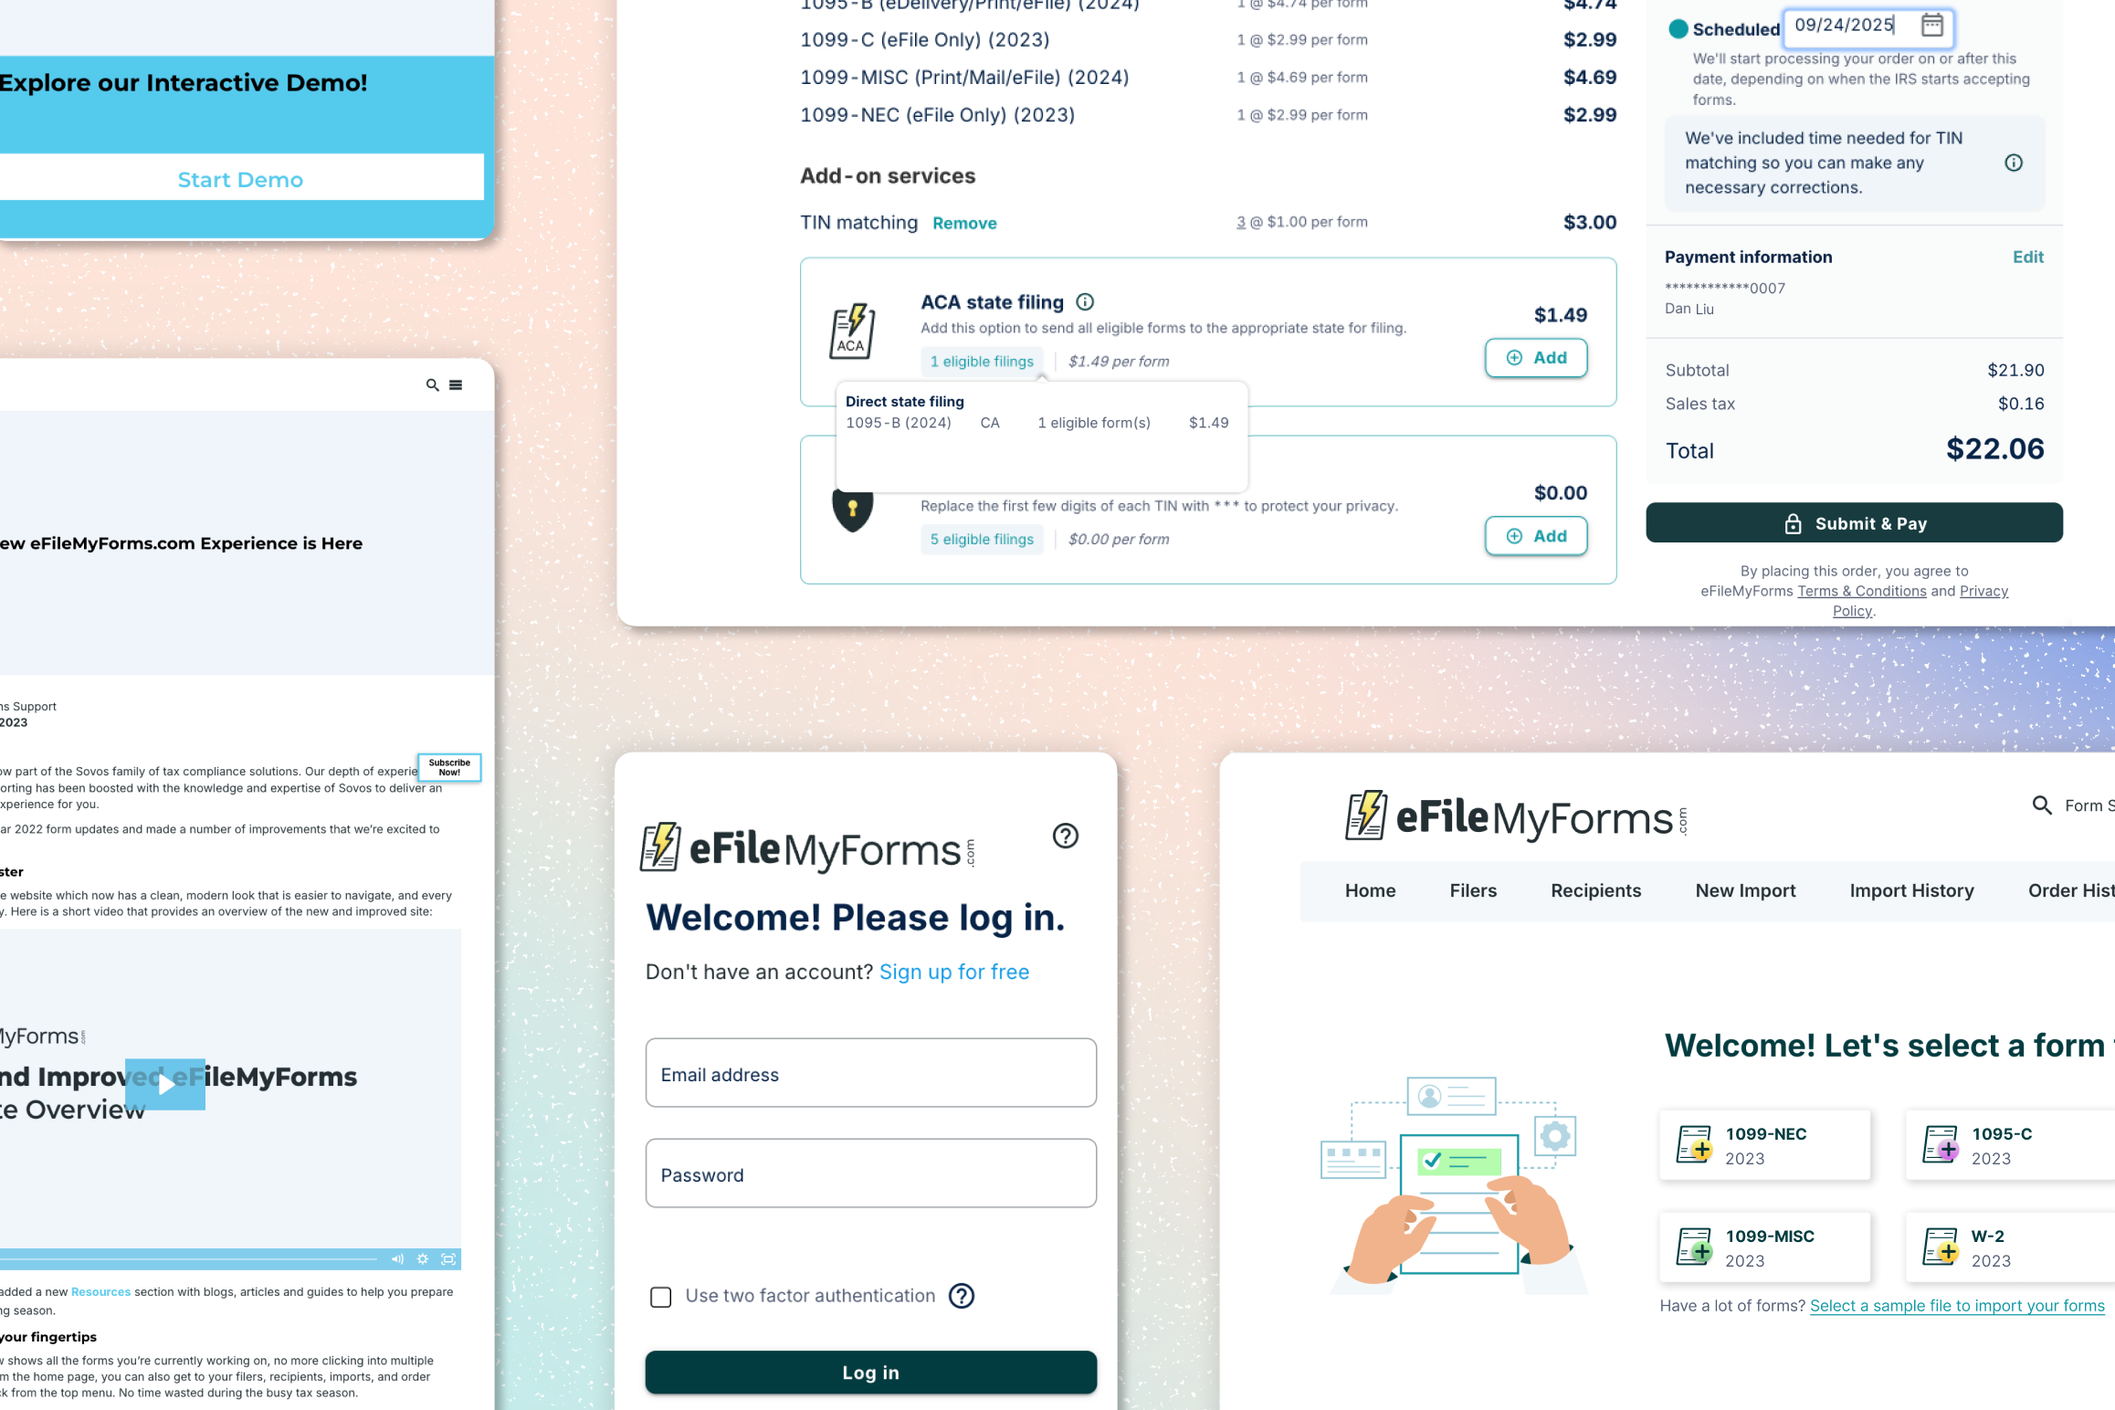
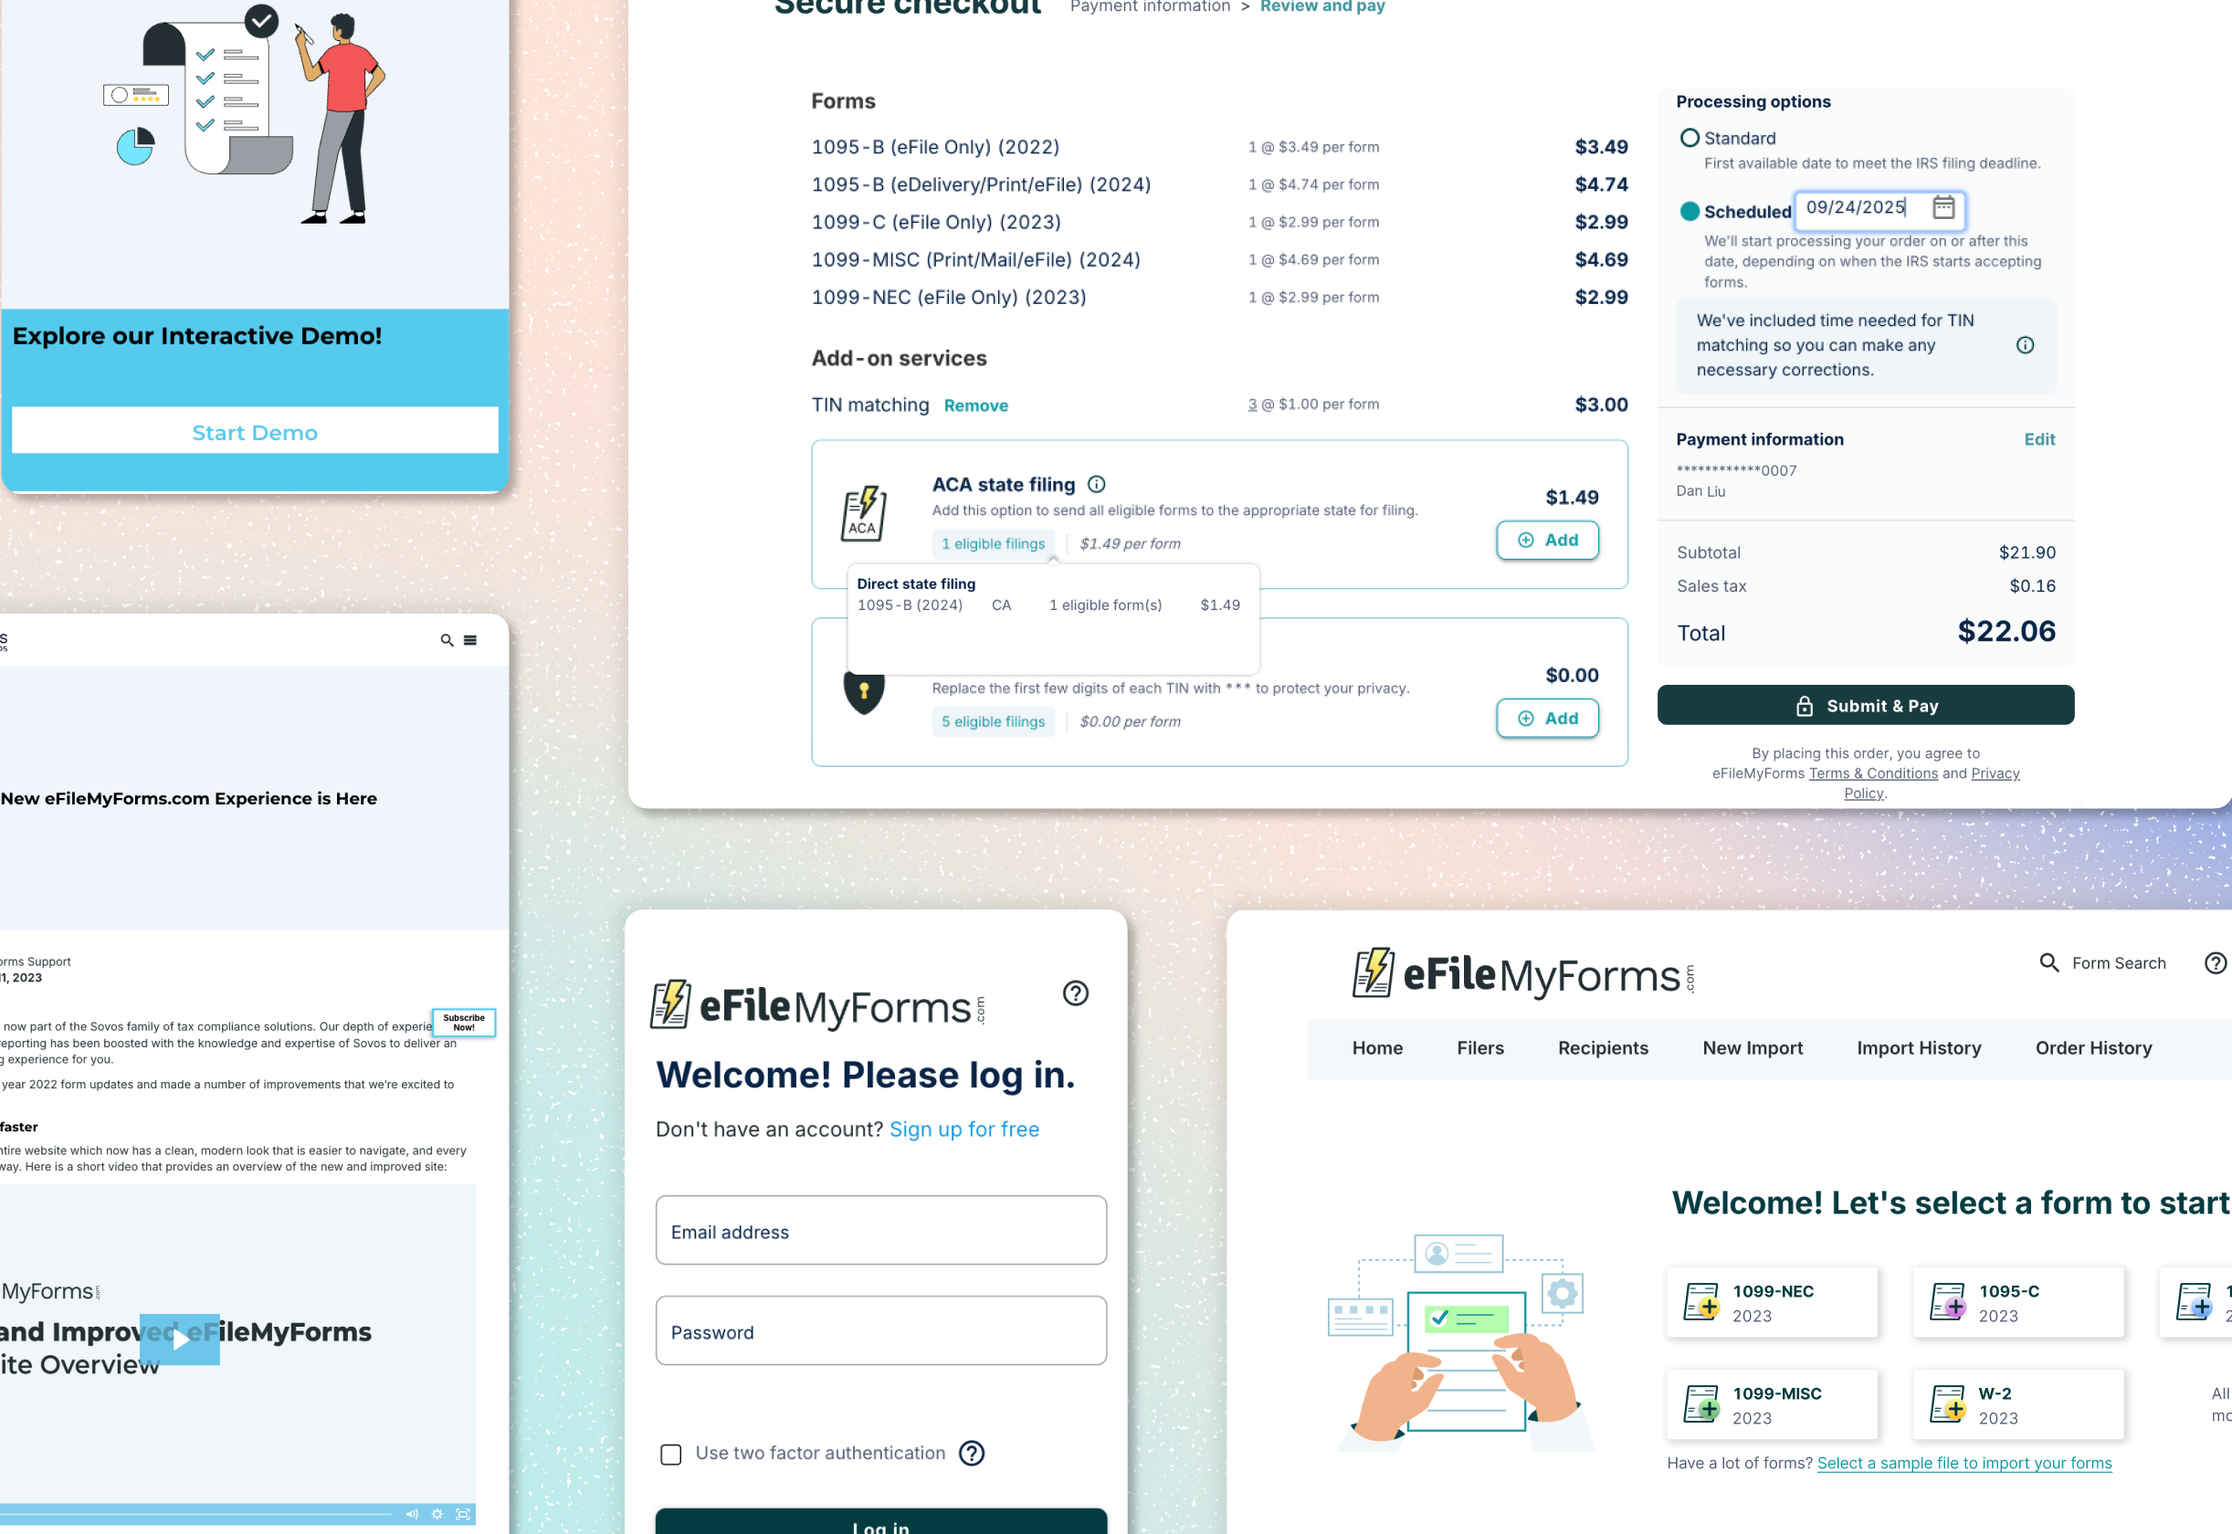
Redesign project cards and thumbnail images on featured project sections on the home page, updated ux copies

diff --git a/src/app/pages/HomePage.tsx b/src/app/pages/HomePage.tsx
@@ -5,7 +5,7 @@ import svgPaths from "../../imports/svg-q8lj8xj9ju";
 import imgPrototypeReviewEfmf from "../../assets/images/efilemyforms-prototype-review.png";
 import imgPrototypeReviewUp1 from "../../assets/images/reportmyup-prototype-review.png";
 import imgWomanWorkingOnAMacBookPro14 from "../../assets/images/woman-working-macbook.png";
-import vidStatFullUi from "../../assets/images/statutoryreporting-full-ui.mp4";
+import imgStatPrototypeReview from "../../assets/images/stat-prototype-review.png";
 import { Header } from "../components/Header";
 import { Footer } from "../components/Footer";
 import { OtherProjectsSection } from "../components/home/OtherProjectsSection";
@@ -645,10 +645,11 @@ export function HomePage() {
             <div className="projects-list">
               {/* Project 1: Statutory Reporting */}
               <article className="project-card bg-surface-cream rounded-lg items-stretch overflow-hidden max-w-[1220px] mx-auto w-full">
+                <Link to="/statutory-reporting" className="project-card-link" aria-label="View Statutory Reporting project" />
                 <div className="project-info gap-4 p-6 md:p-10 lg:pl-[62px] lg:pr-8 lg:py-10 w-full lg:w-[499px] shrink-0">
                   <div className="project-metadata flex items-center gap-4 flex-wrap">
                     <div className="project-timestamp flex items-center gap-1 font-body text-[18px] tracking-[-0.5px]">
-                      <span className="text-[#5c6166]">Jul 2025</span>
+                      <span className="text-[#5c6166]">2025</span>
                       <span className="text-[#999ea3]"> - </span>
                       <span className="text-[#5c6166]">Current</span>
                     </div>
@@ -656,47 +657,50 @@ export function HomePage() {
                       {"•"}
                     </span>
                     <span className="project-name text-[#5c6166] font-body text-[18px] tracking-[-0.5px]">
-                      Statutory Reporting
+                      Statutory Reporting Redesign
                     </span>
                   </div>
 
                   <h3 className="project-title">
-                    Redesigned Notes editor to help insurance preparers finish
-                    faster and reduce churn
+                    Redesigned a compliance editor to stop churn and give preparers time back
                   </h3>
 
                   <div className="project-tags">
-                    <span className="project-tag">Product Design</span>
                     <span className="project-tag">B2B SaaS</span>
-                    <span className="project-tag">Design Lead</span>
+                    <span className="project-tag">Research + strategy</span>
+                    <span className="project-tag">AI vision</span>
                   </div>
 
-                  <p className="project-description">
-                    Research-driven redesign of the Notes editor in Sovos
-                    Statutory Reporting — the tool insurance preparers use to
-                    create financial statements.
-                  </p>
+                  <div className="project-divider" />
 
-                  <Link to="/statutory-reporting" className="btn-primary">
-                    View project
-                  </Link>
+                  <div className="project-metrics">
+                    <div className="project-metric">
+                      <span className="project-metric-value">13%</span>
+                      <span className="project-metric-label">market share impacted</span>
+                    </div>
+                    <div className="project-metric">
+                      <span className="project-metric-value">13,021</span>
+                      <span className="project-metric-label">cases researched</span>
+                    </div>
+                    <div className="project-metric">
+                      <span className="project-metric-value">"Helping big time"</span>
+                      <span className="project-metric-label">client quote</span>
+                    </div>
+                  </div>
                 </div>
 
-                <div className="project-image-container w-full lg:w-[721px] lg:shrink-0">
-                  <video
-                    src={vidStatFullUi}
-                    autoPlay
-                    muted
-                    loop
-                    playsInline
-                    aria-label="Demo of the new Notes form mode showing focused data entry without formatting distractions"
-                    className="project-image w-full h-full object-cover block"
+                <div className="project-image-container">
+                  <img
+                    src={imgStatPrototypeReview}
+                    alt="Statutory Reporting Notes editor interface"
+                    className="project-image"
                   />
                 </div>
               </article>
 
               {/* Project 2: ReportMyUP */}
               <article className="project-card reverse bg-surface-cream rounded-lg items-stretch overflow-hidden max-w-[1220px] mx-auto w-full">
+                <Link to="/reportmyup" className="project-card-link" aria-label="View ReportMyUP project" />
                 <div className="project-info gap-4 p-6 md:p-10 lg:pl-[62px] lg:pr-8 lg:py-10 w-full lg:w-[499px] shrink-0">
                   <div className="project-metadata flex items-center gap-4 flex-wrap">
                     <div className="project-timestamp flex items-center gap-1 font-body text-[18px] tracking-[-0.5px]">
@@ -708,7 +712,7 @@ export function HomePage() {
                       {"•"}
                     </span>
                     <span className="project-name text-[#5c6166] font-body text-[18px] tracking-[-0.5px]">
-                      ReportMyUP
+                      ReportMyUP Redesign
                     </span>
                   </div>
 
@@ -717,34 +721,41 @@ export function HomePage() {
                   </h3>
 
                   <div className="project-tags">
-                    <span className="project-tag">B2B</span>
-                    <span className="project-tag">Unclaimed Property</span>
-                    <span className="project-tag">Design Strategy</span>
+                    <span className="project-tag">B2B SaaS</span>
+                    <span className="project-tag">Service + architecture design</span>
                     <span className="project-tag">Growth</span>
                   </div>
 
-                  <p className="project-description">
-                    Iterated cross-department pivot strategist within tight
-                    constraints and complex platform architecture to grow
-                    Unclaimed Property's conversion.{" "}
-                  </p>
+                  <div className="project-divider" />
 
-                  <Link to="/reportmyup" className="btn-primary">
-                    View project
-                  </Link>
+                  <div className="project-metrics">
+                    <div className="project-metric">
+                      <span className="project-metric-value">5,233%</span>
+                      <span className="project-metric-label">signup increase</span>
+                    </div>
+                    <div className="project-metric">
+                      <span className="project-metric-value">1,564</span>
+                      <span className="project-metric-label">customers migrated</span>
+                    </div>
+                    <div className="project-metric">
+                      <span className="project-metric-value">$4.79M</span>
+                      <span className="project-metric-label">revenue opportunity</span>
+                    </div>
+                  </div>
                 </div>
 
-                <div className="project-image-container w-full lg:w-[721px] lg:shrink-0">
+                <div className="project-image-container">
                   <img
                     src={imgPrototypeReviewUp1}
                     alt="ReportMyUP platform interface screenshots"
-                    className="project-image w-full h-full object-cover block"
+                    className="project-image"
                   />
                 </div>
               </article>
 
               {/* Project 3: eFileMyForms */}
               <article className="project-card bg-surface-cream rounded-lg items-stretch overflow-hidden max-w-[1220px] mx-auto w-full">
+                <Link to="/efilemyforms" className="project-card-link" aria-label="View eFileMyForms project" />
                 <div className="project-info gap-4 p-6 md:p-10 lg:pl-[62px] lg:pr-8 lg:py-10 w-full lg:w-[499px] shrink-0">
                   <div className="project-metadata flex items-center gap-4 flex-wrap">
                     <div className="project-timestamp flex items-center gap-1 font-body text-[18px] tracking-[-0.5px]">
@@ -761,51 +772,38 @@ export function HomePage() {
                   </div>
 
                   <h3 className="project-title">
-                    Made tax filing easy and modern for stressed small business
-                    owners
+                    Made tax filing easy and modern for stressed small business owners
                   </h3>
 
                   <div className="project-tags">
-                    <span className="project-tag">
-                      NPS 15
-                      <svg
-                        className="arrow-icon"
-                        viewBox="0 0 18 18"
-                        fill="none"
-                      >
-                        <path d={svgPaths.pf7cbf00} fill="#09543D" />
-                      </svg>
-                    </span>
-                    <span className="project-tag">
-                      ARR 23%
-                      <svg
-                        className="arrow-icon"
-                        viewBox="0 0 18 18"
-                        fill="none"
-                      >
-                        <path d={svgPaths.pf7cbf00} fill="#09543D" />
-                      </svg>
-                    </span>
-                    <span className="project-tag">E-commerce</span>
-                    <span className="project-tag">Tax Filing</span>
+                    <span className="project-tag">E-commerce tax filing</span>
+                    <span className="project-tag">End-to-end</span>
+                    <span className="project-tag">Security design</span>
                   </div>
 
-                  <p className="project-description">
-                    My design for Sovos' first ecommerce product sparked market
-                    expansion and became the design blueprint for their global
-                    ecommerce portfolio.{" "}
-                  </p>
+                  <div className="project-divider" />
 
-                  <Link to="/efilemyforms" className="btn-primary">
-                    View project
-                  </Link>
+                  <div className="project-metrics">
+                    <div className="project-metric">
+                      <span className="project-metric-value">23%</span>
+                      <span className="project-metric-label">ARR Growth</span>
+                    </div>
+                    <div className="project-metric">
+                      <span className="project-metric-value">+44%</span>
+                      <span className="project-metric-label">new signups</span>
+                    </div>
+                    <div className="project-metric">
+                      <span className="project-metric-value">+15pt</span>
+                      <span className="project-metric-label">NPS increase</span>
+                    </div>
+                  </div>
                 </div>
 
-                <div className="project-image-container w-full lg:w-[721px] lg:shrink-0">
+                <div className="project-image-container">
                   <img
                     src={imgPrototypeReviewEfmf}
                     alt="eFileMyForms platform interface screenshots"
-                    className="project-image w-full h-full object-cover block"
+                    className="project-image"
                   />
                 </div>
               </article>

diff --git a/src/app/pages/HomePage.css b/src/app/pages/HomePage.css
@@ -177,6 +177,7 @@
   display: flex;
   flex-direction: column;
   gap: var(--spacing-2xl);
+  padding: var(--spacing-sm);  /* room for hover scale to breathe */
 }
 
 /* Project Card */
@@ -189,7 +190,21 @@
   gap: 40px;
   align-items: start; /* Prevents safari flex bug */
   overflow: hidden;
-  /* padding: 40px; */
+  position: relative;
+  transition: transform var(--transition-slow), box-shadow var(--transition-slow);
+}
+
+.project-card:hover {
+  transform: scale(1.015);
+  box-shadow: var(--shadow-hover);
+  z-index: var(--z-raised);
+}
+
+.project-card-link {
+  position: absolute;
+  inset: 0;
+  z-index: var(--z-raised);
+  border-radius: var(--radius-md);
 }
 
 .project-card.reverse {
@@ -264,36 +279,55 @@
   gap: var(--spacing-xs);
 }
 
-.project-tag .arrow-icon {
-  width: 18px;
-  height: 18px;
+.project-divider {
+  width: 100%;
+  height: var(--border-thin);
+  background-color: var(--color-border-light);
+  flex-shrink: 0;
 }
 
-.project-description {
-  font-family: var(--font-body);
-  font-size: var(--text-lg);
+.project-metrics {
+  display: flex;
+  gap: var(--spacing-lg);
+  flex-wrap: wrap;
+}
+
+.project-metric {
+  display: flex;
+  flex-direction: column;
+  gap: var(--spacing-xs);
+}
+
+.project-metric-value {
+  font-family: var(--font-heading);
+  font-weight: var(--font-weight-semibold);
+  font-size: var(--text-xl);
   color: var(--color-brand-primary);
-  letter-spacing: -0.5px;
   font-feature-settings: 'lnum', 'tnum';
-  line-height: 1.5;
-  margin: 0;
+  line-height: 1;
+}
+
+.project-metric-label {
+  font-family: var(--font-body);
+  font-size: var(--text-sm);
+  color: var(--color-text-secondary);
+  font-feature-settings: 'lnum', 'tnum';
+  line-height: 1;
 }
 
 .project-image-container {
   position: relative;
-  aspect-ratio: 2316 / 1544;
+  aspect-ratio: 16 / 9; /* mobile: natural aspect ratio so image has height */
   min-width: 304px;
-  /* align-items: stretch; */
-  align-self: stretch;  /* Prevents safari flex bug & make sure it fills height */
+  align-self: stretch;
   min-height: 0;  /* Prevents safari flex bug */
-  height: 100%; /* fill the grid cell height but this will crop the image */
 }
 
 .project-image {
   width: 100%;
   height: 100%;
   object-fit: cover;
-  border-radius: var(--radius-sm);
+  /* border-radius: var(--radius-sm); */
   display: block;  /* Prevents safari flex bug */
 }
 
@@ -382,8 +416,27 @@
     min-height: 684px;
   }
 
+  .project-info {
+    align-self: center;
+  }
+
+  .project-card,
+  .project-card.reverse {
+    --text-3xl: 2rem;
+    min-height: 420px;
+    grid-template-columns: 1fr 611px;
+  }
+
   .project-image-container {
-    width: 721px;
+    aspect-ratio: unset;
+    width: 100%;
+    height: 100%;
+  }
+}
+
+@media (min-width: 1220px) {
+  .project-info {
+    min-width: 569px;
   }
 }
 
